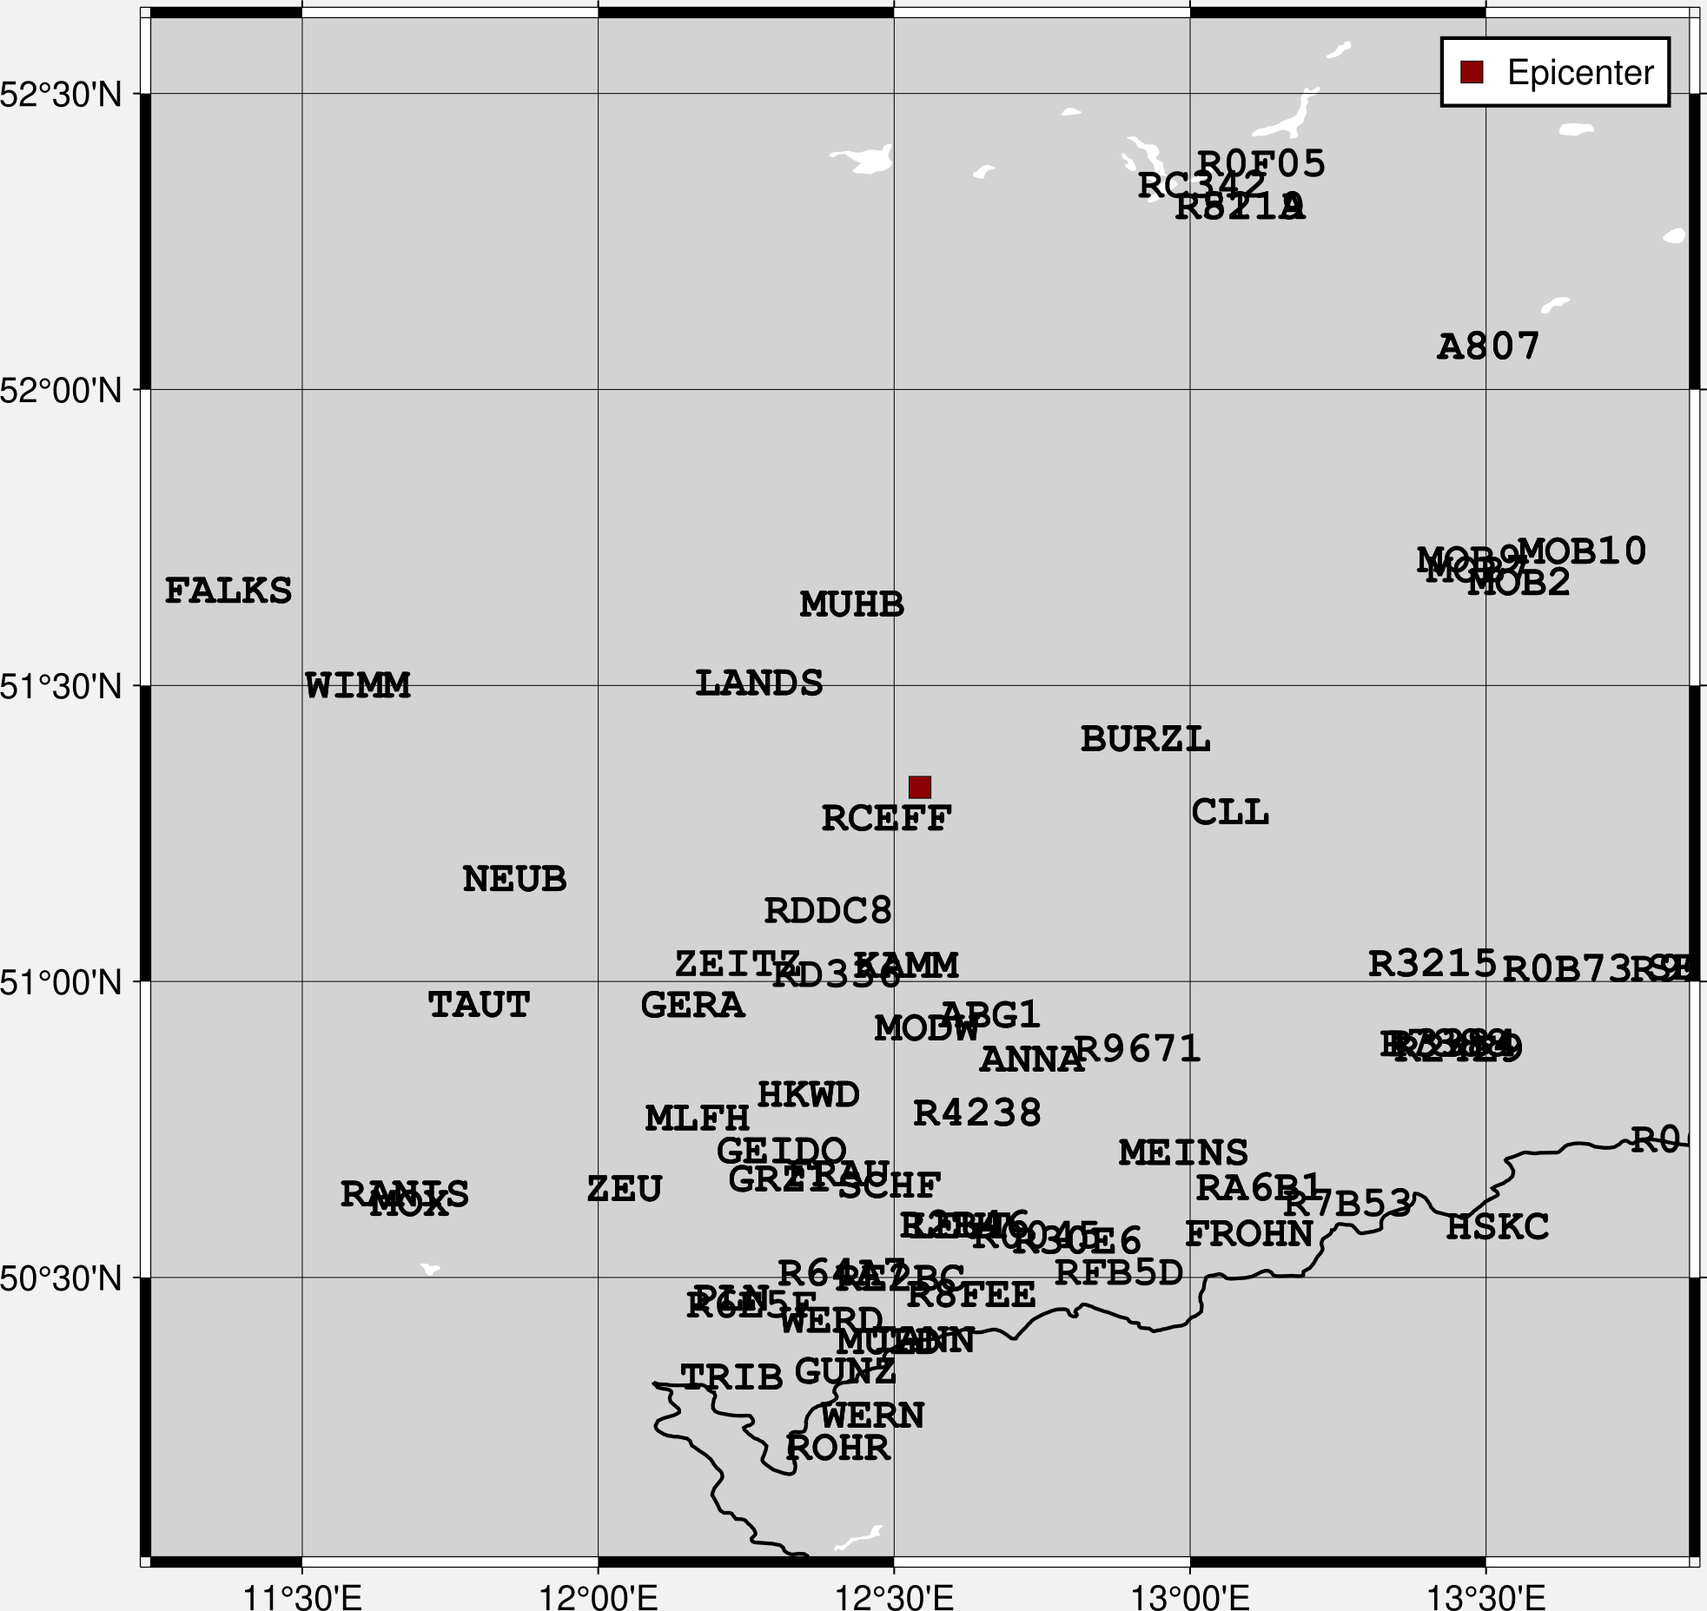
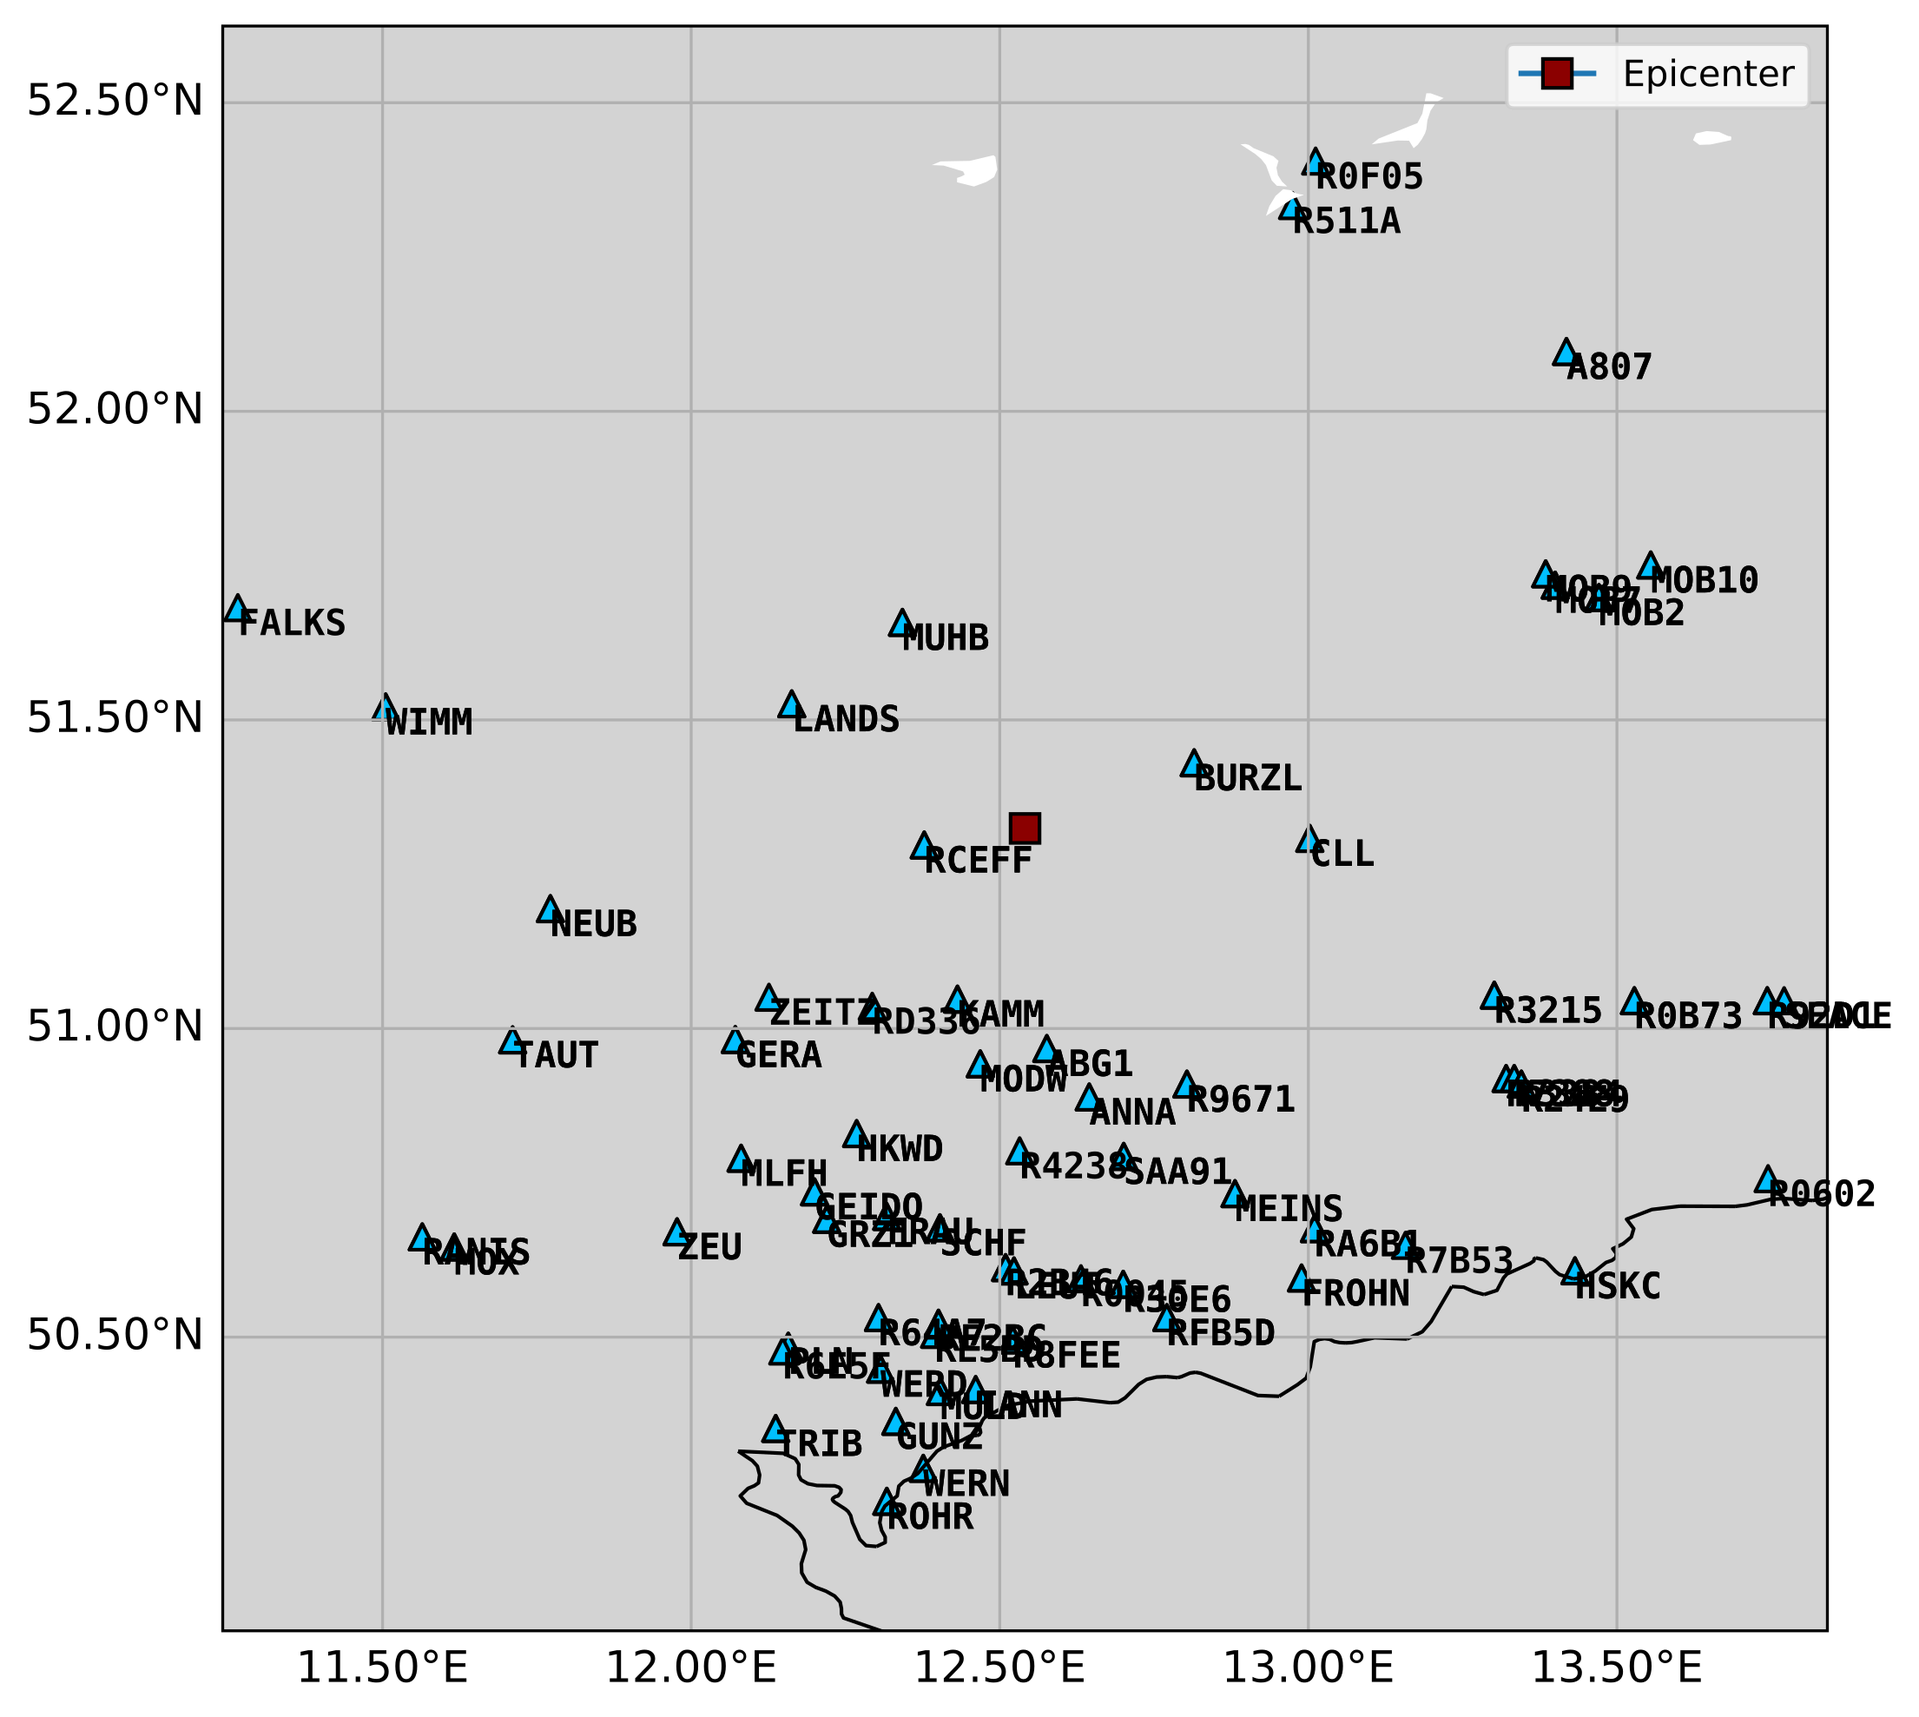
Map generation with Cartopy, Kit6 velmod included

diff --git a/tiebenn/tools/visualization.py b/tiebenn/tools/visualization.py
@@ -1,8 +1,13 @@
 import glob
 import os
 
+import cartopy.crs as ccrs
+import cartopy.feature as cfeature
+from cartopy.mpl.ticker import LongitudeFormatter, LatitudeFormatter
+
 import matplotlib
 matplotlib.use('Agg')
+from matplotlib import gridspec
 from matplotlib.patches import RegularPolygon
 from matplotlib.path import Path
 from matplotlib.projections import register_projection
@@ -10,11 +15,10 @@ from matplotlib.projections.polar import PolarAxes
 from matplotlib.spines import Spine
 from matplotlib.transforms import Affine2D
 import matplotlib.pyplot as plt
-import numpy as np
-import pandas as pd
-import pygmt
 
+import numpy as np
 from obspy import UTCDateTime, read
+import pandas as pd
 
 
 def plotpicks_sb_mw(data, streams, starttime, predictions, picks, picks_final):
@@ -236,40 +240,71 @@ def plot_assoc(ev_time, data, stations, picks, events, merged, mult_windows, sec
 
 def epic_sta_plot():
     """
-
     Generates a plot of the event's epicenter and the stations with picks used for depth estimation with NonLinLoc.
     """
-    stations_file = f"{glob.glob('*_tiebenn_loc/')[0]}station_coordinates.txt"
-
-    locfile = glob.glob('*_tiebenn_loc/loc_eqdatetime.*.*.grid0.loc.hyp')[0]
+    stations_dir = glob.glob('*_tiebenn_loc/')[0]
+    stations_file = f"{stations_dir}station_coordinates.txt"
 
     sta_list = {}
     with open(stations_file) as stats:
-         for line in stats:
-             sta_list[line.split()[1]] = [float(line.split()[3]), float(line.split()[4])]
+        for line in stats:
+            parts = line.split()
+            sta_list[parts[1]] = [float(parts[3]), float(parts[4])]
 
-    station = []; latitude = []; longitude = []
+    locfile = glob.glob('*_tiebenn_loc/loc_eqdatetime.*.*.grid0.loc.hyp')[0]
+
+    stations, lats, lons = [], [], []
+    ev_lon = ev_lat = None
     with open(locfile) as locf:
-         for line in locf:
-             if len(line.split()) != 0:
-                if line.split()[0] == 'GEOGRAPHIC':
-                   ev_longitude = float(line.split()[11])
-                   ev_latitude = float(line.split()[9])
-                if line.split()[0] in sta_list and float(line.split()[16]) != 0.0:
-                   station.append(line.split()[0])
-                   latitude.append(sta_list[line.split()[0]][0])
-                   longitude.append(sta_list[line.split()[0]][1])
+        for line in locf:
+            parts = line.split()
+            if not parts:
+                continue
+            if parts[0] == 'GEOGRAPHIC':
+                ev_lat = float(parts[9])
+                ev_lon = float(parts[11])
+            elif parts[0] in sta_list and float(parts[16]) != 0.0:
+                stations.append(parts[0])
+                lats.append(sta_list[parts[0]][0])
+                lons.append(sta_list[parts[0]][1])
 
-    df = {'station': station, 'latitude': latitude, 'longitude': longitude}
-    stations = pd.DataFrame(data=df)
+    df = pd.DataFrame({'station': stations, 'latitude': lats, 'longitude': lons})
 
-    fig = pygmt.Figure()
-    fig.coast(region=[ev_longitude - 1.3, ev_longitude + 1.3, ev_latitude - 1.3, ev_latitude + 1.3], land='lightgray', water='white', borders='1/1p', frame='ag')
-    fig.plot(x=ev_longitude, y=ev_latitude, style='s0.3c', fill='darkred', pen='black', label='Epicenter')
-    fig.text(x=stations.longitude, y=stations.latitude, text=stations.station, font='12p,Courier-Bold,black', justify='LT')
-    fig.legend()
+    fig = plt.figure(figsize=(8, 8))
+    ax = plt.axes(projection=ccrs.PlateCarree())
 
-    fig.savefig(f"{glob.glob('*_tiebenn_loc/')[0]}epicenter_stations.pdf")
+    buffer = 1.3
+    min_lon, max_lon = ev_lon - buffer, ev_lon + buffer
+    min_lat, max_lat = ev_lat - buffer, ev_lat + buffer
+    ax.set_extent([min_lon, max_lon, min_lat, max_lat], crs=ccrs.PlateCarree())
+
+    ax.add_feature(cfeature.LAND, facecolor='lightgray')
+    ax.add_feature(cfeature.OCEAN, facecolor='white')
+    ax.add_feature(cfeature.LAKES, facecolor='white')
+    ax.coastlines(resolution='10m', linewidth=0.8)
+    ax.add_feature(cfeature.BORDERS, linestyle='-', linewidth=1.0)
+
+    gl = ax.gridlines(draw_labels=True, x_inline=False, y_inline=False)
+    gl.xformatter = LongitudeFormatter(dms=False, number_format='.2f')
+    gl.yformatter = LatitudeFormatter(dms=False, number_format='.2f')
+    gl.xlabel_style = {'size': 12}
+    gl.ylabel_style = {'size': 12}
+    gl.top_labels = False
+    gl.right_labels = False
+
+    ax.plot(ev_lon, ev_lat, marker='s', markersize=8, markeredgecolor='black', markerfacecolor='darkred', transform=ccrs.PlateCarree(), label='Epicenter')
+
+    ax.scatter(df['longitude'], df['latitude'], marker='^', edgecolor='black', s=50, color='deepskyblue', transform=ccrs.PlateCarree())
+
+    for _, row in df.iterrows():
+        if row['longitude'] > min_lon and row['longitude'] < max_lon and row['latitude'] > min_lat and row['latitude'] < max_lat:
+           ax.text(row['longitude'], row['latitude'], row['station'], fontsize=10, fontfamily='monospace', fontweight='bold', transform=ccrs.PlateCarree(), horizontalalignment='left', verticalalignment='top')
+
+    ax.legend(loc='upper right')
+
+    out_pdf = f"{glob.glob('*_tiebenn_loc/')[0]}epicenter_stations.pdf"
+    plt.savefig(out_pdf, dpi=300, bbox_inches='tight')
+    plt.close(fig)
 
     return
 
@@ -407,20 +442,26 @@ def plot_hypoc_confidence_ellipsoid():
               ellipsoid3['e2'] = e21, e22
               ellipsoid3['e3'] = e31, e32
 
-    pygmt.config(FONT='14p', FONT_ANNOT='12p')
-    fig = pygmt.Figure()
-    fig.basemap(region=region_xy, projection='X10c', frame=['xafg+lEast (km)', 'yafg+lNorth (km)', 'Wsen+tLocation: confidence ellipsoid'])
-    fig.plot(x=X, y=Y, style='c1.25p', fill='black')
+    fig = plt.figure(figsize=[12, 10], tight_layout=True)
+    gs = gridspec.GridSpec(3, 3)
+
+    axes = fig.add_subplot(gs[0:2, 0:2])
+    axes.tick_params(labelsize=14, bottom=False, labelbottom=False)
+    axes.plot(X, Y, 'k.', zorder=0)
+    axes.set_xlim(region_xy[0], region_xy[1])
+    axes.set_ylim(region_xy[2], region_xy[3])
+    axes.set_ylabel('North (km)', fontsize=14)
+    axes.set_title(r'Location confidence ellipsoid', fontsize=16, weight='bold')
+    axes.grid(True, ls='--')
 
     for i in ellipsoid2:
-        fig.plot(x=ellipsoid2[i][0], y=ellipsoid2[i][1], pen='1p,cyan')
+        axes.plot(ellipsoid2[i][0], ellipsoid2[i][1], 'c', zorder=1)
 
-    fig.plot(x=max_x, y=max_y, style='a6p', fill='red')
+    axes.scatter(max_x, max_y, c='red', marker='*', s=30, zorder=2)
 
-    for i in range(len(stations)):
-        fig.text(x=stations[i][0], y=stations[i][1], text=stations[i][2])
-
-    fig.shift_origin(xshift='w+0.5c')
+    for lon, lat, name in stations:
+        if float(lon) > region_xy[0] and float(lon) < region_xy[1] and float(lat) > region_xy[2] and float(lat) < region_xy[3]:
+           axes.text(float(lon), float(lat), name, fontsize=10, ha='center', va='center')
 
     Z = []; Y = []
     with open(glob.glob('*_tiebenn_loc/*scat.ZY')[0], 'r') as f:
@@ -428,16 +469,18 @@ def plot_hypoc_confidence_ellipsoid():
              Z.append(float(line.split()[0]))
              Y.append(float(line.split()[1]))
 
-    fig.basemap(region=region_zy, projection='X5c/10c', frame=['xafg+lDepth (km)', 'yafg+lNorth (km)', 'wSEn'])
-    fig.plot(x=Z, y=Y, style='c1.25p', fill='black')
+    axes = fig.add_subplot(gs[0:2, 2:3])
+    axes.plot(Z, Y, 'k.', zorder=0)
+    axes.set_xlim(region_zy[0], region_zy[1])
+    axes.set_ylim(region_zy[2], region_zy[3])
+    axes.set_xlabel('Depth (km)', fontsize=14)
+    axes.tick_params(left=False, right=True , labelleft=False, labelright=True, labelsize=14)
+    axes.grid(True, ls='--')
 
     for i in ellipsoid3:
-        fig.plot(x=ellipsoid3[i][0], y=ellipsoid3[i][1], pen='1p,cyan')
+        axes.plot(ellipsoid3[i][0], ellipsoid3[i][1], 'c', zorder=1)
 
-    fig.plot(x=max_z, y=max_y, style='a6p', fill='red')
-    fig.shift_origin(xshift='w-15.5c', yshift='h-15.5c')
-
-    fig.basemap(region=region_xz, projection='X10c/-5c', frame=['xafg+lEast (km)', 'yafg+lDepth (km)', 'WSen'])
+    axes.scatter(max_z, max_y, c='red', marker='*', s=30, zorder=2)
 
     X = []; Z = []
     with open(glob.glob('*_tiebenn_loc/*scat.XZ')[0], 'r') as f:
@@ -445,12 +488,20 @@ def plot_hypoc_confidence_ellipsoid():
              X.append(float(line.split()[0]))
              Z.append(float(line.split()[1]))
 
-    fig.plot(x=X, y=Z, style='c1.25p', fill='black')
+    axes = fig.add_subplot(gs[2:3, 0:2])
+    axes.plot(X, Z, 'k.', zorder=0)
+    axes.set_xlim(region_xz[0], region_xz[1])
+    axes.set_ylim(region_xz[2], region_xz[3])
+    axes.set_xlabel('East (km)', fontsize=14)
+    axes.set_ylabel('Depth (km)', fontsize=14)
+    axes.tick_params(labelsize=14)
+    axes.grid(True, ls='--')
+    axes.invert_yaxis()
 
     for i in ellipsoid1:
-        fig.plot(x=ellipsoid1[i][0], y=ellipsoid1[i][1], pen='1p,cyan')
+        axes.plot(ellipsoid1[i][0], ellipsoid1[i][1], 'c', zorder=1)
 
-    fig.plot(x=max_x, y=max_z, style='a6p', fill='red')
+    axes.scatter(max_x, max_z, c='red', marker='*', s=30, zorder=2)
 
     with open(glob.glob('*_tiebenn_loc/loc_eqdatetime*.hyp')[0], 'r') as f:
          for line in f:
@@ -463,14 +514,20 @@ def plot_hypoc_confidence_ellipsoid():
                 if lin_[0] == 'QUALITY':
                    rms_nphs = f"RMS: {lin_[8]}s {lin_[9]}:{lin_[10]}"
                    gap_dist = f"Az_gap: {lin_[12]} Ne_sta: {lin_[14]} km"
-                if lin_[0] == 'QML_ConfidenceEllipsoid':
-                   ell_axes = f"semiMaj: {lin_[2]} semiInt: {lin_[6]}"
-                   semi_min = f"semiMin: {lin_[4]}"
+                if lin_[0] == 'STATISTICS':
+                   uncx_uncy = f"UncX: {lin_[24]} UncY: {lin_[30]}"
+                   uncz = f"UncZ: {lin_[-1]}"
 
-    fig.text(x=11, y=10, text=datetime, font='11p,Courier-Bold,black', justify='LM', no_clip=True)
-    fig.text(x=[11, 11], y=[12, 14], text=[geo_epi, depth], font='10p,Courier,black', justify='LT', no_clip=True)
-    fig.text(x=[11, 11], y=[16, 18], text=[rms_nphs, gap_dist], font='10p,Courier,black', justify='LT', no_clip=True)
-    fig.text(x=[11, 11, 11], y=[20, 22, 24], text=['NLL Confidence ellipsoid axes (km):', ell_axes, semi_min], font='10p,Courier,black', justify='LT', no_clip=True)
+    axes = fig.add_subplot(gs[2:3, 2:3])
+    axes.axis('off')
+    axes.text(0.01, 0.9, datetime, fontsize=14, family='monospace', weight='bold', ha='left', va='center')
+    axes.text(0.01, 0.8, geo_epi, fontsize=14, family='monospace', ha='left', va='center')
+    axes.text(0.01, 0.7, depth, fontsize=14, family='monospace', ha='left', va='center')
+    axes.text(0.01, 0.6, rms_nphs, fontsize=14, family='monospace', ha='left', va='center')
+    axes.text(0.01, 0.5, gap_dist, fontsize=14, family='monospace', ha='left', va='center')
+    axes.text(0.01, 0.4, 'NLL Confidence ellipsoid axes (km):', fontsize=14, family='monospace', ha='left', va='center')
+    axes.text(0.01, 0.3, uncx_uncy, fontsize=14, family='monospace', ha='left', va='center')
+    axes.text(0.01, 0.2, uncz, fontsize=14, family='monospace', ha='left', va='center')
 
     fig.savefig(f"{glob.glob('*_tiebenn_loc/')[0]}NLL_confidence_ellipsoid.pdf")
 

diff --git a/tiebenn/tools/nonlinloc.py b/tiebenn/tools/nonlinloc.py
@@ -385,7 +385,7 @@ def pynlloc(control_file, control_file_s, data, velmod, nll3d, plots):
     def Grid2GMT(control_file, gridloc, gmt_dir, plot_type1, plot_type2):
         """
 
-        Subprocess to call and execute Grid2GMT, which converts NonLinLoc Grids to be read for location plots with PyGMT (GMT). More information and examples of using Grid2GMT in http://alomax.free.fr/nlloc/
+        Subprocess to call and execute Grid2GMT, which converts NonLinLoc Grids to be read for location plots. More information and examples of using Grid2GMT in http://alomax.free.fr/nlloc/
 
         Args:
              control_file (str): the control file to execute Grid2GMT
@@ -514,7 +514,6 @@ def pynlloc(control_file, control_file_s, data, velmod, nll3d, plots):
                 try:
                     epic_sta_plot()
                 except:
-                       print('Something went wrong with the GMT plot. Was the installation of GMT and/or PyGMT correct?')
                        pass
 
                 gridloc = glob.glob('*_tiebenn_loc/loc_eqdatetime.*.*.grid0.loc.hyp')[0][:-4]

diff --git a/docs/conf.py b/docs/conf.py
@@ -17,7 +17,7 @@ logging.basicConfig(level=logging.DEBUG)
 project = 'TieBeNN'
 copyright = f'{datetime.now().year}, C. Ramos'
 author = 'C. Ramos'
-release = '0.1.0'
+release = '0.2.0'
 
 # -- General configuration ---------------------------------------------------
 # https://www.sphinx-doc.org/en/master/usage/configuration.html#general-configuration
@@ -30,8 +30,6 @@ extensions = [
     "sphinx_rtd_theme",
     "sphinx_autodoc_typehints",
 ]
-
-autodoc_mock_imports = ["pygmt"]
 
 autodoc_typehints = "description"
 autodoc_typehints_description_target = "documented"

diff --git a/tiebenn/__init__.py b/tiebenn/__init__.py
@@ -1,1 +1,1 @@
-__version__ = '0.1.0'
+__version__ = '0.2.0'

diff --git a/README.md b/README.md
@@ -33,10 +33,10 @@ Using the coordinates (latitude and longitude) and the UTC time of a local event
 * **Python 3.9** or later (successfully tested with Python 3.10 and 3.12).
 * **SeisBench**, the ML model toolbox used for phase picking and denoising.
 * **NonLinLoc**, a suite of C programs for probabilistic hypocenter estimation.
-* **GMT** and **PyGMT**, for map generation.
 * **PyOcto**, phase associator after [Münchmeyer (2024)](https://seismica.library.mcgill.ca/article/view/1130).
 * **Pyrocko**, open-source seismology toolbox and library.
 * **GaMMA**, phase associator after [Zhu et al. (2022)](https://agupubs.onlinelibrary.wiley.com/doi/full/10.1029/2021JB023249).
+* **Cartopy**, for map generation.
 
 ### Optional
 
@@ -116,10 +116,6 @@ Set NonLinLoc in your `PATH`:
 echo 'export PATH=${PATH}:<some_convenient_directory>' >> ~/.bashrc
 exec bash
 ```
-
-### :hammer_and_wrench: Install GMT
-
-GMT version 6.0+ is recommended (officially 6.4+ for PyGMT). [The official GMT documentation](https://docs.generic-mapping-tools.org/dev/install.html) has installation instructions, including instructions to migrate from earlier versions, and of course, a bunch of tutorials.
 
 ## :test_tube: Usage
 
@@ -240,7 +236,6 @@ Clearly under development.
 
 - [DeepDenoiser example](https://colab.research.google.com/github/seisbench/seisbench/blob/main/examples/02b_deep_denoiser.ipynb)
 - [NonLinLoc GitHub](https://github.com/ut-beg-texnet/NonLinLoc)
-- [PyGMT guide and MANY examples](https://www.pygmt.org/dev/index.html)
 - [Pyrocko applications](https://pyrocko.org/)
 
 ## :balance_scale: License

diff --git a/docs/pages/requirements.rst b/docs/pages/requirements.rst
@@ -1,13 +1,13 @@
 Requirements
 ============
 
-* **Python 3.9** or later (successfully tested with Python 3.10 and 3.12).
+* **Python 3.10** or later (successfully tested with Python 3.10 and 3.12).
 * **SeisBench**, the ML model toolbox used for phase picking and denoising.
 * **NonLinLoc**, a suite of C programs for probabilistic hypocenter estimation.
-* **GMT** and **PyGMT**, for map generation.
 * **PyOcto**, phase associator after `Münchmeyer (2024) <https://seismica.library.mcgill.ca/article/view/1130>`_.
 * **Pyrocko**, open-source seismology toolbox and library.
 * **GaMMA**, phase associator after `Zhu et al. (2022) <https://agupubs.onlinelibrary.wiley.com/doi/full/10.1029/2021JB023249>`_.
+* **Cartopy**, for map generation.
 
 Optional
 ~~~~~~~~

diff --git a/docs/pages/installation.rst b/docs/pages/installation.rst
@@ -81,8 +81,3 @@ Set NonLinLoc in your ``PATH``:
 
    echo 'export PATH=${PATH}:<some_convenient_directory>' >> ~/.bashrc
    exec bash
-
-Install GMT
-~~~~~~~~~~~
-
-GMT version 6.0+ is recommended (officially 6.4+ for PyGMT). `The official GMT documentation <https://docs.generic-mapping-tools.org/dev/install.html>`_ has installation instructions, including instructions to migrate from earlier versions, and of course, a bunch of tutorials.
